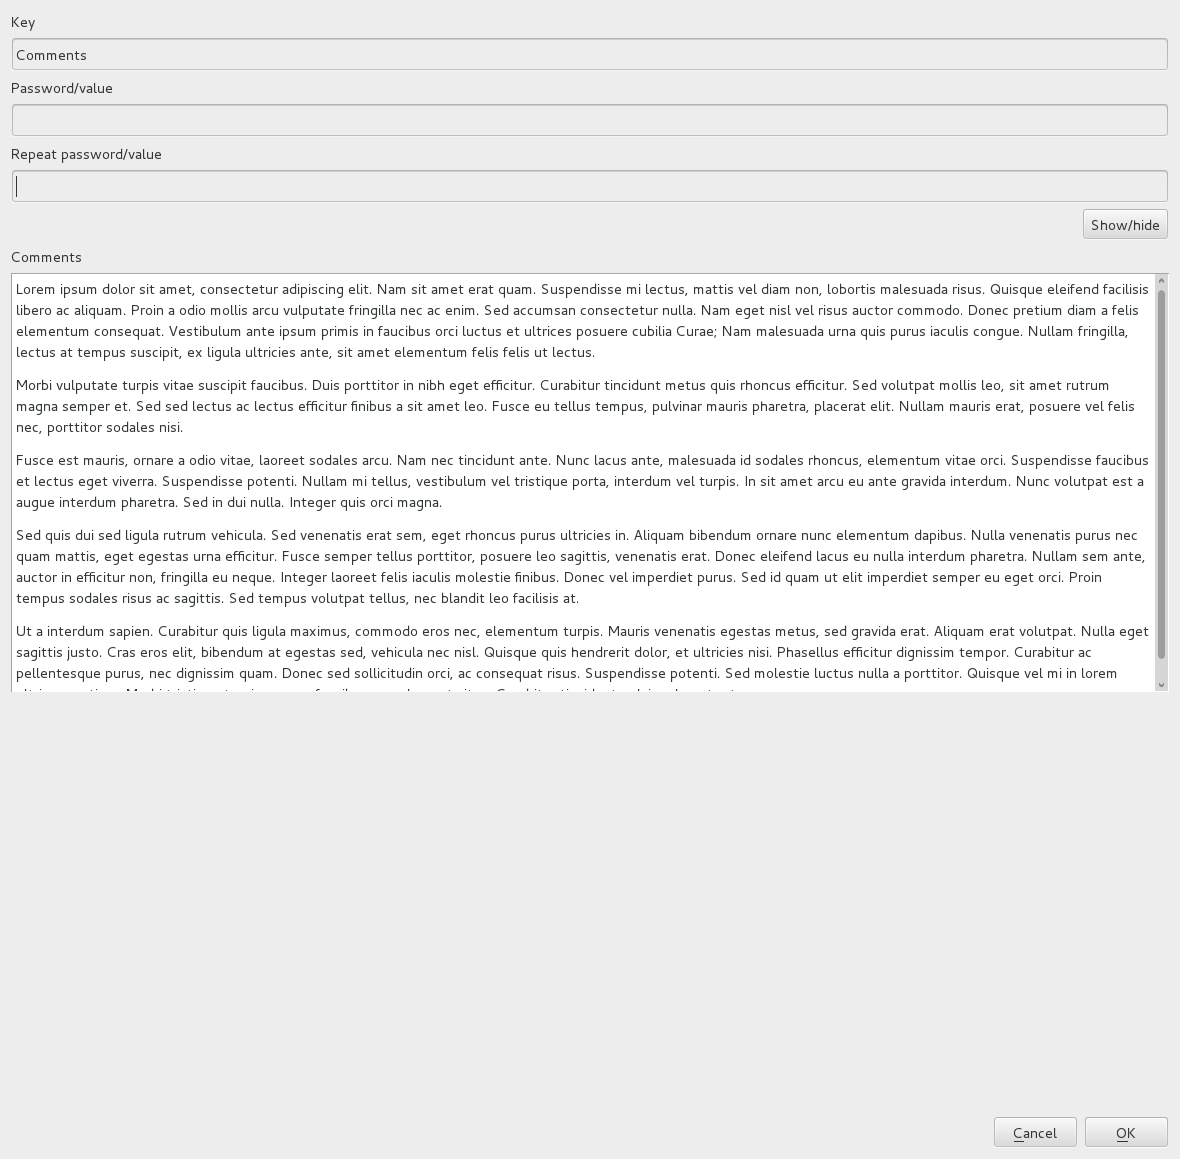
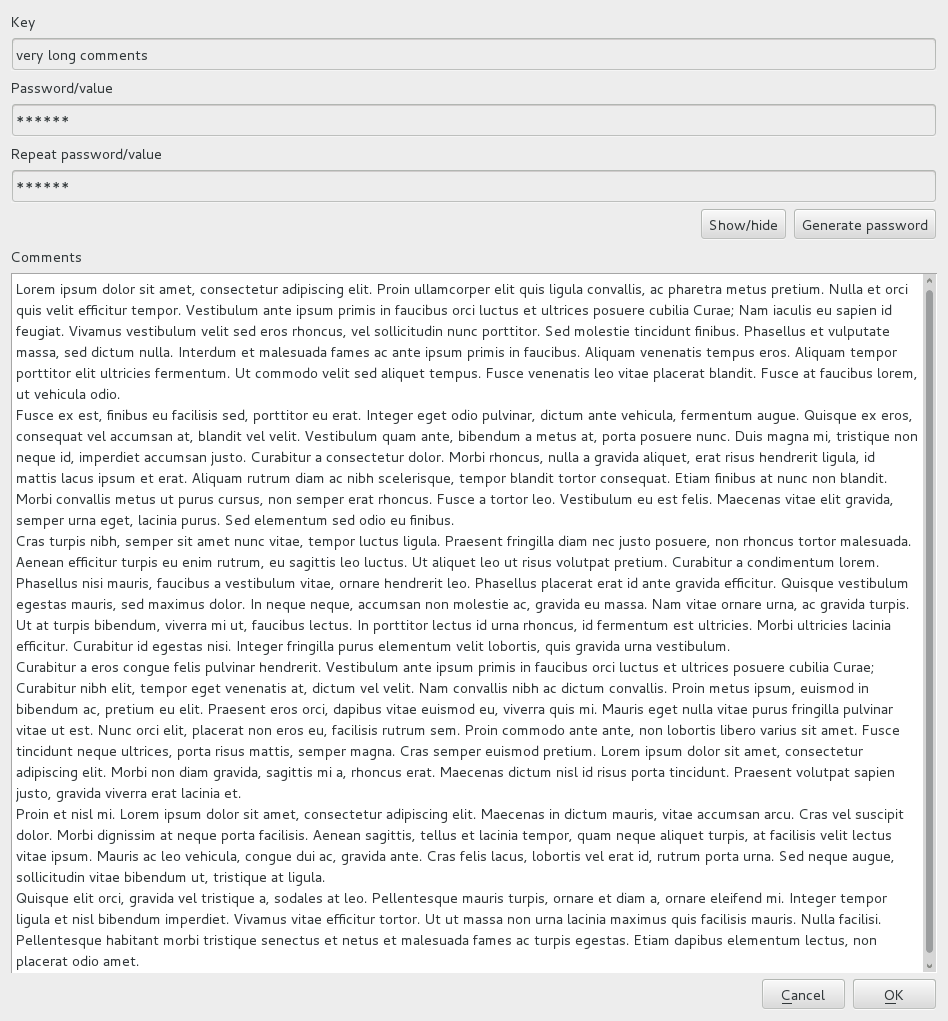
added a Generate-Random-Password button to GUI

Changed region(s): [[0.0, 0.1518, 1.0, 0.9412], [0.0, 0.0, 1.0, 0.1822], [0.8259, 0.9716, 0.9789, 1.0]]

diff --git a/dialogs.py b/dialogs.py
@@ -1,11 +1,17 @@
 from PyQt4 import QtGui, QtCore
 
+import os
+import base64
+import hashlib
+
 from ui_addgroup_dialog import Ui_AddGroupDialog
 from ui_trezor_passphrase_dialog import Ui_TrezorPassphraseDialog
 from ui_add_password_dialog import Ui_AddPasswordDialog
 from ui_initialize_dialog import Ui_InitializeDialog
 from ui_enter_pin_dialog import Ui_EnterPinDialog
 from ui_trezor_chooser_dialog import Ui_TrezorChooserDialog
+
+from encoding import q2s, s2q
 
 class AddGroupDialog(QtGui.QDialog, Ui_AddGroupDialog):
 	
@@ -52,12 +58,14 @@ class TrezorPassphraseDialog(QtGui.QDialog, Ui_TrezorPassphraseDialog):
 
 class AddPasswordDialog(QtGui.QDialog, Ui_AddPasswordDialog):
 	
-	def __init__(self):
+	def __init__(self, trezor):
 		QtGui.QDialog.__init__(self)
 		self.setupUi(self)
 		self.pwEdit1.textChanged.connect(self.validatePw)
 		self.pwEdit2.textChanged.connect(self.validatePw)
 		self.showHideButton.clicked.connect(self.switchPwVisible)
+		self.generatePasswordButton.clicked.connect(self.generatePassword)
+		self.trezor = trezor
 	
 	def key(self):
 		return self.keyEdit.text()
@@ -86,6 +94,20 @@ class AddPasswordDialog(QtGui.QDialog, Ui_AddPasswordDialog):
 			
 		self.pwEdit1.setEchoMode(newMode)
 		self.pwEdit2.setEchoMode(newMode)
+	
+	def generatePassword(self):
+	        trezor_entropy = self.trezor.get_entropy(32)
+		urandom_entropy = os.urandom(32)
+		passwdBin = hashlib.sha256(trezor_entropy + urandom_entropy).digest()
+		# base85 encoding not yet implemented in Python 2.7, (requires Python 3+)
+		# so we use base64 encoding
+		# remove the base64 buffer char =, remove easily confused chars 0 and O, as well as I and l
+		passwdB64 = base64.urlsafe_b64encode(passwdBin).translate(None, '=0OIl')
+		# print "bin =", passwdBin, ", base =", passwdB64, " binlen =", len(passwdBin), "baselen =", len(passwdB64)
+		# instead of setting the values, we concatenate them to the existing values
+		# This way, by clicking the "Generate password" button one can create an arbitrary long random password.
+		self.pwEdit1.setText(self.pw1() + s2q(passwdB64))
+		self.pwEdit2.setText(self.pw2() + s2q(passwdB64))
 		
 class InitializeDialog(QtGui.QDialog, Ui_InitializeDialog):
 	

diff --git a/TrezorPass.py b/TrezorPass.py
@@ -351,7 +351,7 @@ class MainWindow(QtGui.QMainWindow, Ui_MainWindow):
 		if self.selectedGroup is None:
 			return
 		group = self.pwMap.groups[self.selectedGroup]
-		dialog = AddPasswordDialog()
+		dialog = AddPasswordDialog(self.pwMap.trezor)
 		if not dialog.exec_():
 			return
 		
@@ -389,7 +389,7 @@ class MainWindow(QtGui.QMainWindow, Ui_MainWindow):
 		except CallException:
 			return
 		
-		dialog = AddPasswordDialog()
+		dialog = AddPasswordDialog(self.pwMap.trezor)
 		entry = group.entry(row)
 		dialog.keyEdit.setText(s2q(entry[0]))
 		dialog.pwEdit1.setText(s2q(decrypted))
